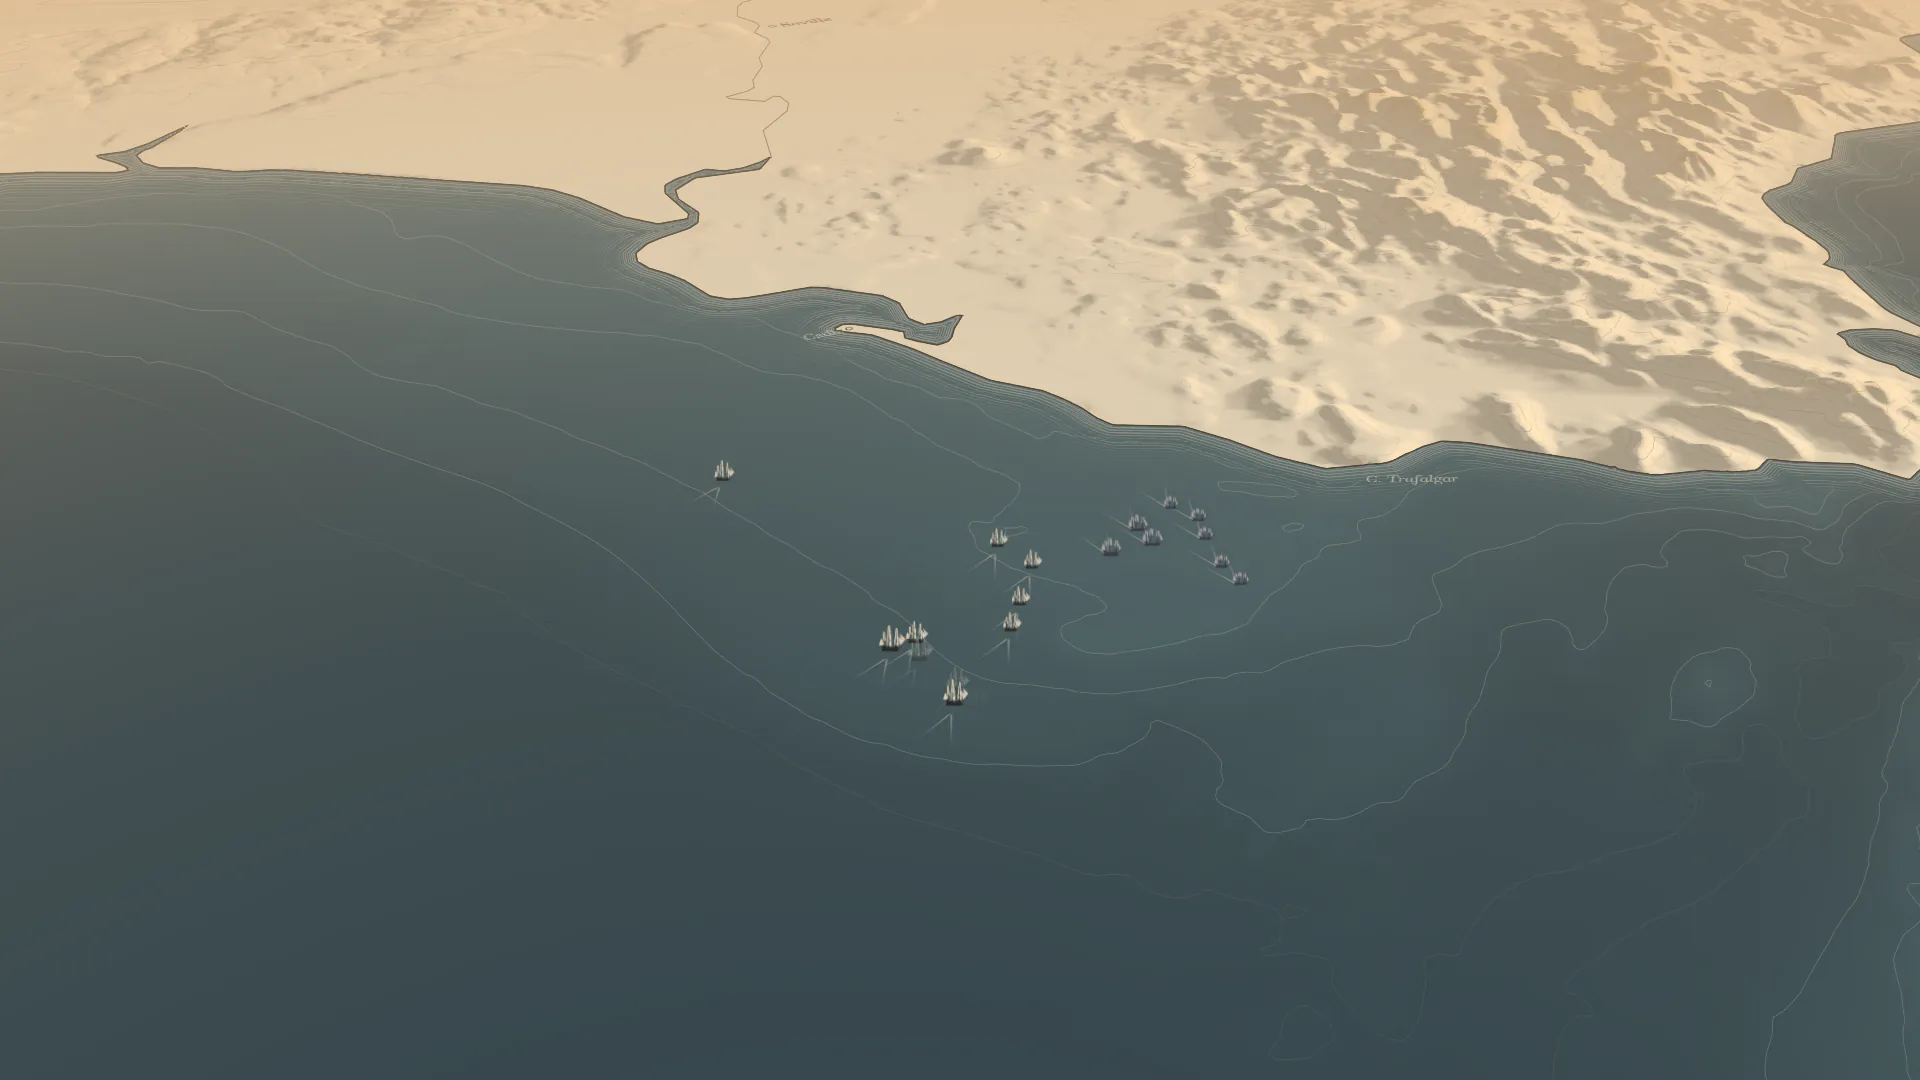
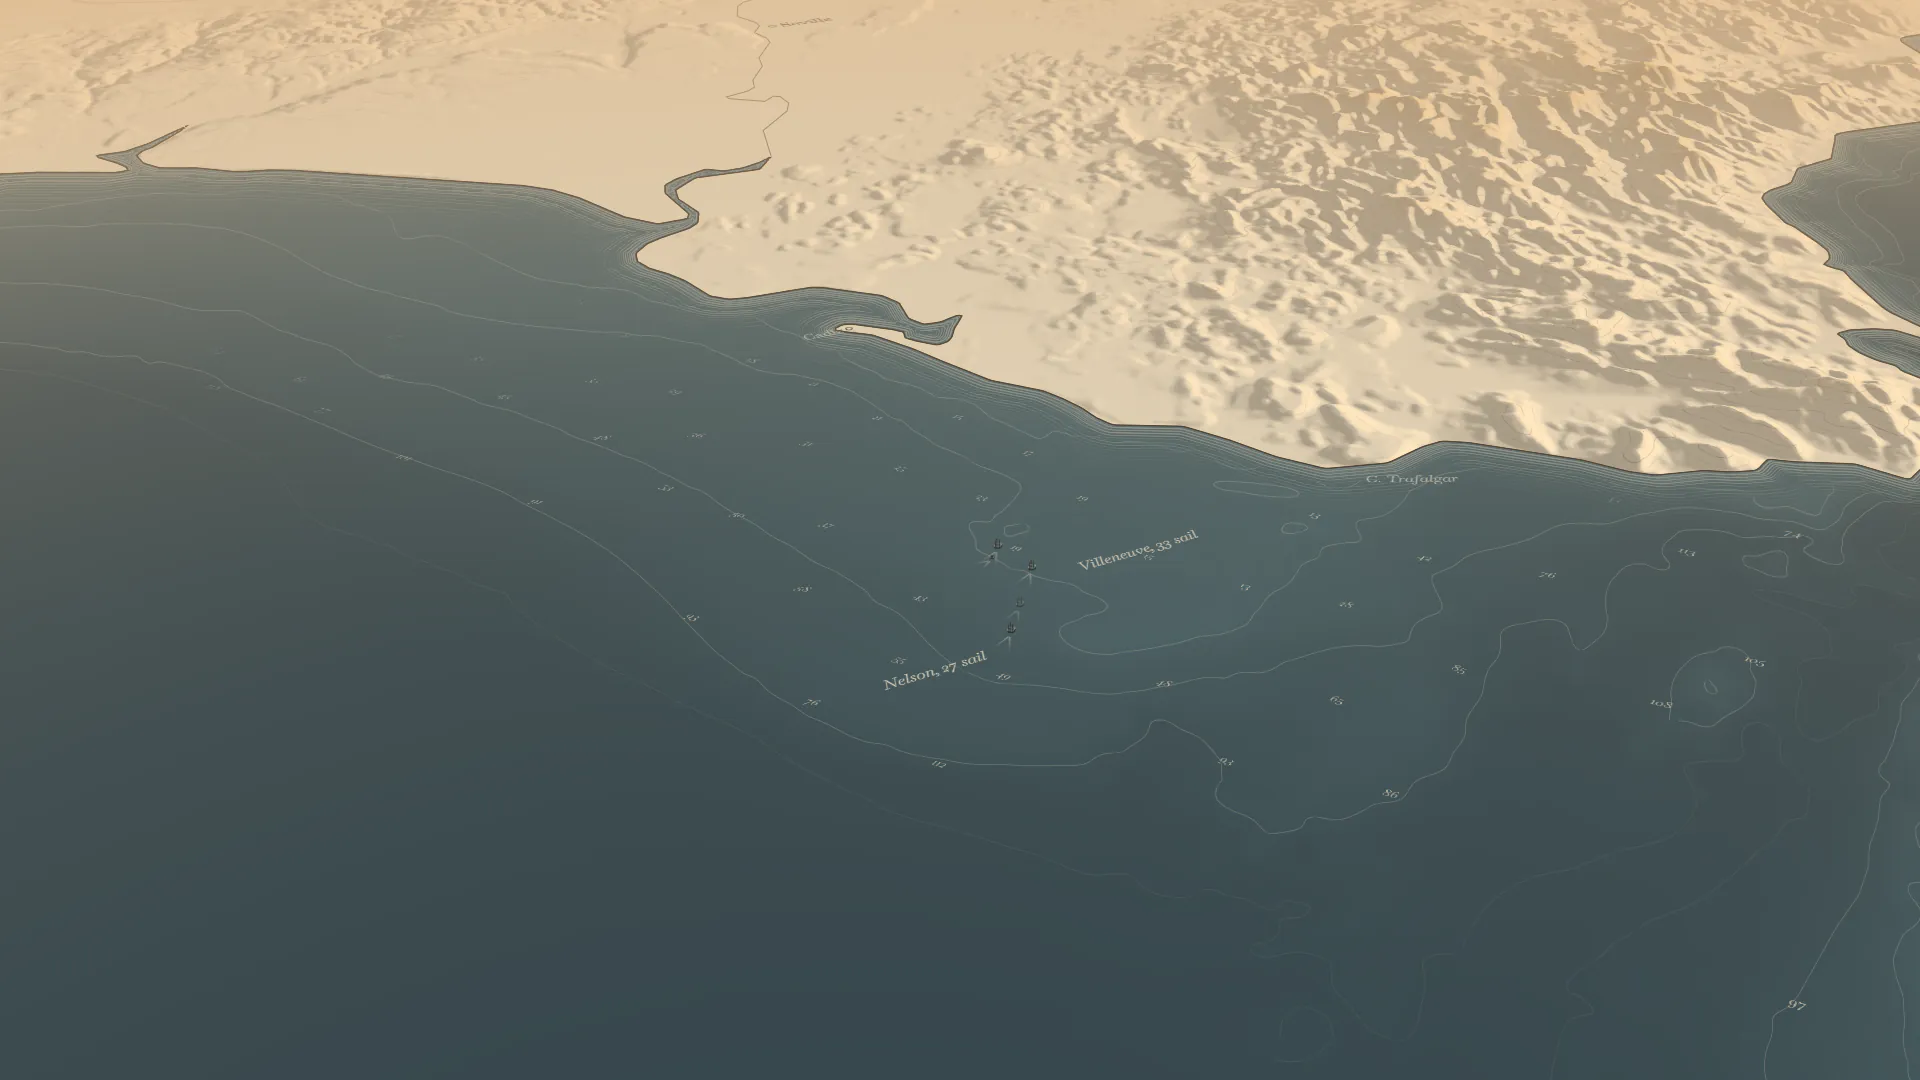
Scene 2's stills by the beat's substance: Finisterre inside the firing (0.54, as it was), Cádiz with the relay (0.783: the chain from the frigates off the port out to the ships of the line, their hoists and guns), the night with the lanterns (0.945: the fleets closing off Cape Trafalgar); each frame
Rendered only with npx playwright test --project=stills -g "one still per beat" on the build of 77ca75e; Boulogne's view from the sea untouched.

diff --git a/tests/e2e/stills.spec.ts b/tests/e2e/stills.spec.ts
@@ -20,16 +20,34 @@ import { open, scrollToRoad } from "./helpers";
 
 const OUT = path.join(process.cwd(), "public", "stills", "scene-02");
 
-/** Each beat's frame: its camera settled, its caption showing. */
+/**
+ * Each beat's frame: its camera settled, its caption showing. A still is
+ * for readers who cannot see the motion, so it shows its beat's substance
+ * (the owner's rule, session 31; the moments chosen in session 39,
+ * docs/decisions.md, "Scene 2's stills by the beat's substance").
+ */
 const FRAMES: readonly [beat: string, p: number][] = [
   ["transition", 0.085],
   ["boulogne", 0.215],
   ["chase", 0.41],
+  // Inside the firing: the two lines in their smoke, both squadrons named.
   ["finisterre", 0.54],
-  // The middle of the harbour's hold, every ship at anchor in.
-  ["cadiz", 0.735],
-  ["night", 1],
+  // The relay: the whole chain from the frigates off Cádiz, their hoists
+  // and guns, out to the ships of the line taking the signal seaward.
+  ["cadiz", 0.783],
+  // The night: the fleets closing off Cape Trafalgar, their lanterns lit.
+  ["night", 0.945],
 ];
+
+/**
+ * Each frame is come to as a reader comes to it, scrolling forward: the
+ * scroll stops this much of p short first. A fleet's label takes a place
+ * only with ample room and keeps it with less (HeadLabels.ts), so a frame
+ * jumped to from far off can lack a label a reader sees there ("Villeneuve,
+ * 33 sail" at the relay's 0.783, even after 6 s). Boulogne's interlude (at
+ * 0.21) lies outside every run-up.
+ */
+const RUN_UP = 0.003;
 
 test("renders one still per beat", async ({ page }) => {
   test.setTimeout(300_000);
@@ -45,6 +63,9 @@ test("renders one still per beat", async ({ page }) => {
       "#road [data-layer=text], #road [data-layer=sea] { visibility: hidden !important; }",
   });
   for (const [beat, p] of FRAMES) {
+    await scrollToRoad(page, p - RUN_UP);
+    // Long enough for a label to take its place and hold it (1 s).
+    await page.waitForTimeout(1500);
     await scrollToRoad(page, p);
     // The scrub settles over 0.6 s; then a few frames of the chart.
     await page.waitForTimeout(1800);
